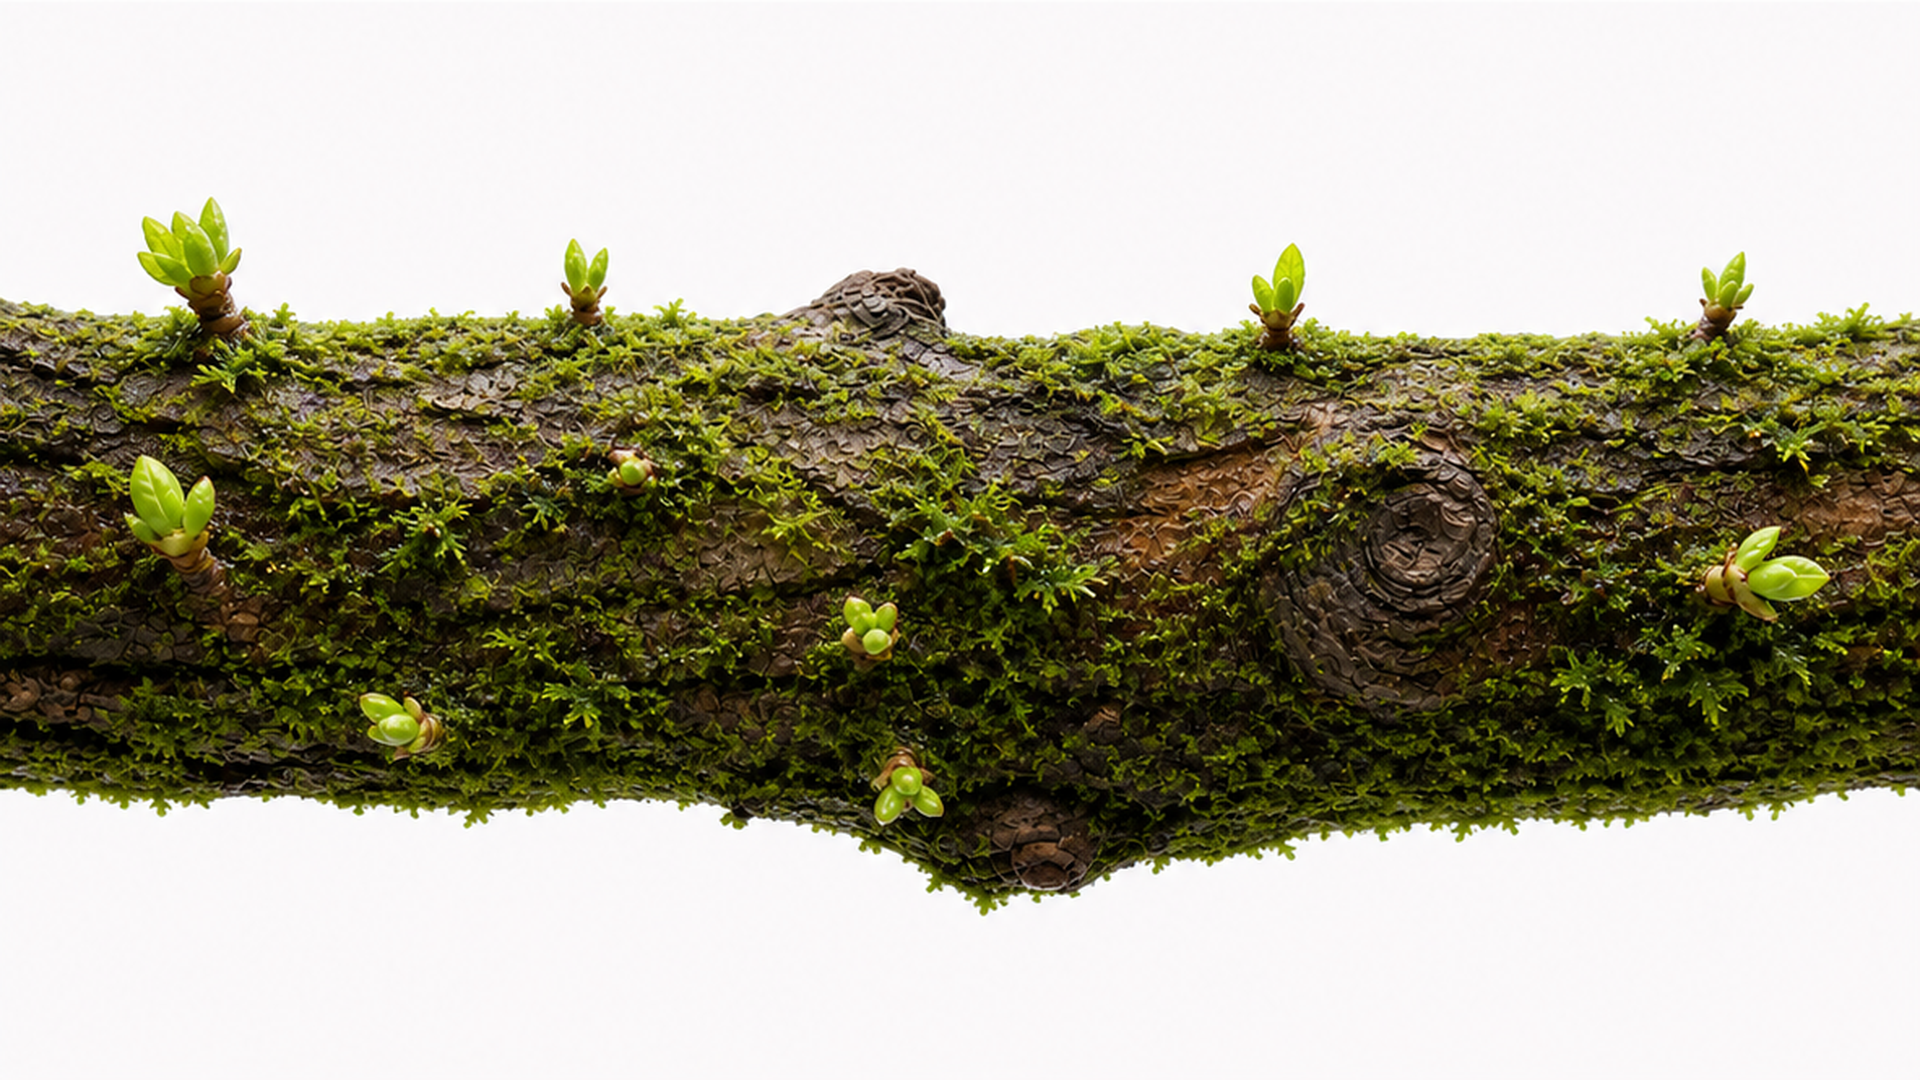
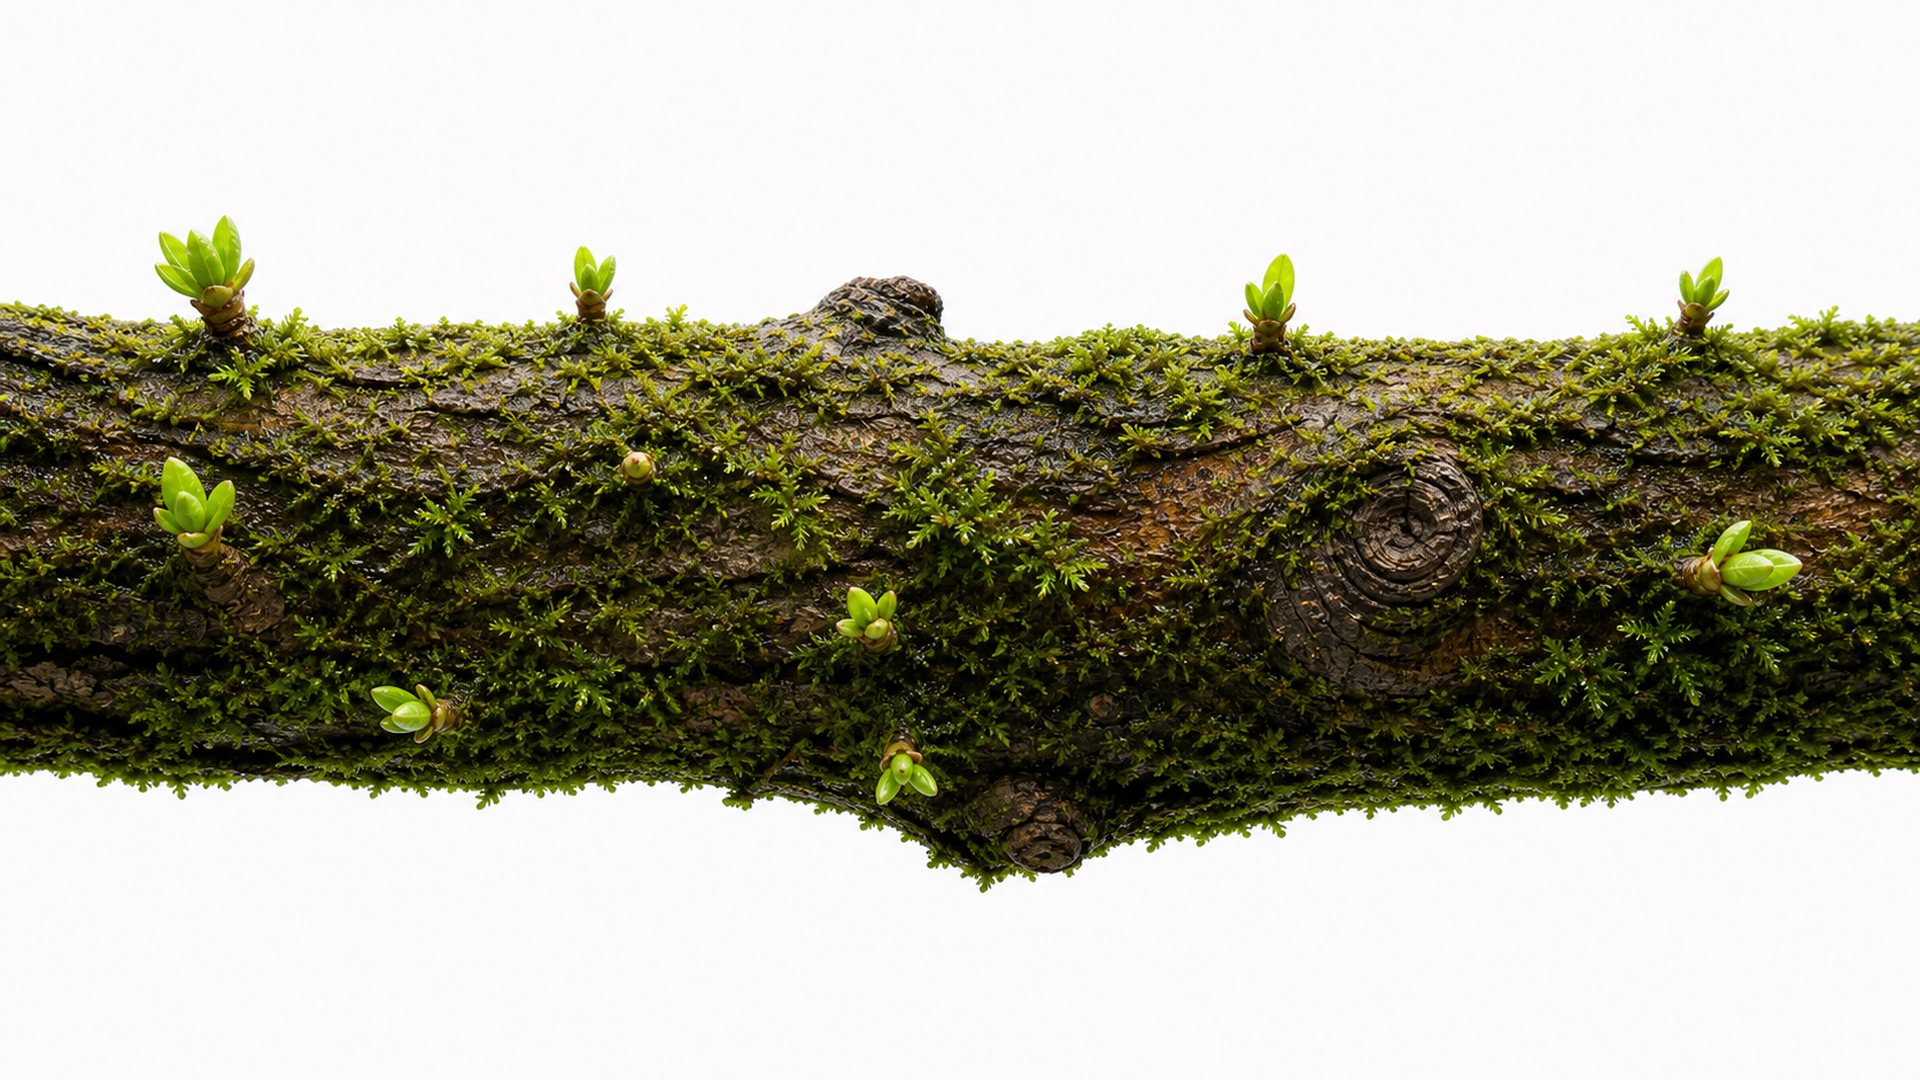
Refine sprout reveal hero interaction

diff --git a/app.js b/app.js
@@ -1,6 +1,7 @@
 const canvas = document.querySelector("#scene");
 const ctx = canvas.getContext("2d");
-const pointer = { x: 0.5, y: 0.52, active: false };
+const pointer = { x: 0.5, y: 0.52, targetX: 0.5, targetY: 0.52, active: false };
+const revealTrail = [];
 let width = 0;
 let height = 0;
 let dpr = 1;
@@ -56,29 +57,51 @@ function drawImageCover(context, img) {
 function paintRevealMask(time) {
   maskCtx.save();
   maskCtx.globalCompositeOperation = "destination-out";
-  maskCtx.fillStyle = "rgba(0, 0, 0, 0.035)";
+  maskCtx.fillStyle = pointer.active ? "rgba(0, 0, 0, 0.026)" : "rgba(0, 0, 0, 0.05)";
   maskCtx.fillRect(0, 0, width, height);
   maskCtx.restore();
 
   if (!pointer.active) return;
 
+  pointer.x += (pointer.targetX - pointer.x) * 0.18;
+  pointer.y += (pointer.targetY - pointer.y) * 0.18;
+
   const x = pointer.x * width;
   const y = pointer.y * height;
-  const pulse = Math.sin(time * 0.004) * 8;
-  const radius = Math.min(width, height) * 0.17 + pulse;
+  const dx = (pointer.targetX - pointer.x) * width;
+  const dy = (pointer.targetY - pointer.y) * height;
+  const speed = Math.min(Math.hypot(dx, dy), 80);
+  const pulse = Math.sin(time * 0.0034) * 7;
+  const radius = Math.min(width, height) * 0.155 + speed * 0.52 + pulse;
+
+  revealTrail.unshift({ x, y, radius, time });
+  if (revealTrail.length > 15) revealTrail.pop();
 
   maskCtx.save();
   maskCtx.globalCompositeOperation = "source-over";
 
-  const outer = maskCtx.createRadialGradient(x, y, radius * 0.08, x, y, radius);
-  outer.addColorStop(0, "rgba(255,255,255,0.95)");
-  outer.addColorStop(0.38, "rgba(255,255,255,0.72)");
-  outer.addColorStop(0.72, "rgba(255,255,255,0.22)");
-  outer.addColorStop(1, "rgba(255,255,255,0)");
-  maskCtx.fillStyle = outer;
-  maskCtx.beginPath();
-  maskCtx.arc(x, y, radius, 0, Math.PI * 2);
-  maskCtx.fill();
+  revealTrail.forEach((point, index) => {
+    const age = index / revealTrail.length;
+    const alpha = Math.max(0, 1 - age * 1.1);
+    const trailRadius = point.radius * (1 - age * 0.32);
+    const outer = maskCtx.createRadialGradient(point.x, point.y, trailRadius * 0.05, point.x, point.y, trailRadius);
+    outer.addColorStop(0, `rgba(255,255,255,${0.9 * alpha})`);
+    outer.addColorStop(0.28, `rgba(255,255,255,${0.66 * alpha})`);
+    outer.addColorStop(0.62, `rgba(255,255,255,${0.22 * alpha})`);
+    outer.addColorStop(1, "rgba(255,255,255,0)");
+    maskCtx.fillStyle = outer;
+    maskCtx.beginPath();
+    maskCtx.ellipse(
+      point.x,
+      point.y,
+      trailRadius * (1.08 + speed / 360),
+      trailRadius * 0.78,
+      Math.atan2(dy, dx || 0.001) * 0.18,
+      0,
+      Math.PI * 2
+    );
+    maskCtx.fill();
+  });
 
   for (let i = 0; i < 7; i += 1) {
     const angle = time * 0.0013 + i * 1.71;
@@ -140,8 +163,8 @@ window.addEventListener("resize", resize);
 const sceneSection = document.querySelector(".scene-section");
 sceneSection.addEventListener("pointermove", (event) => {
   const rect = sceneSection.getBoundingClientRect();
-  pointer.x = (event.clientX - rect.left) / rect.width;
-  pointer.y = (event.clientY - rect.top) / rect.height;
+  pointer.targetX = (event.clientX - rect.left) / rect.width;
+  pointer.targetY = (event.clientY - rect.top) / rect.height;
   pointer.active = true;
   const cursor = document.querySelector("#cursorDot");
   if (cursor) {
@@ -151,6 +174,7 @@ sceneSection.addEventListener("pointermove", (event) => {
 });
 sceneSection.addEventListener("pointerleave", () => {
   pointer.active = false;
+  revealTrail.length = 0;
 });
 resize();
 Promise.all([

diff --git a/styles.css b/styles.css
@@ -175,10 +175,7 @@ textarea {
   overflow: hidden;
   border-bottom-right-radius: var(--radius);
   border-bottom-left-radius: var(--radius);
-  background:
-    radial-gradient(circle at 50% 38%, rgba(65, 87, 255, 0.18), transparent 31rem),
-    radial-gradient(circle at 34% 62%, rgba(0, 168, 143, 0.14), transparent 26rem),
-    linear-gradient(180deg, #ffffff 0%, #f7f6f1 82%);
+  background: linear-gradient(180deg, #ffffff 0%, #f9f8f4 70%, #f2f0e9 100%);
 }
 
 #scene {
@@ -193,8 +190,8 @@ textarea {
   inset: 0;
   pointer-events: none;
   background:
-    linear-gradient(to bottom, rgba(247, 246, 241, 0) 45%, var(--bg) 100%),
-    radial-gradient(circle at 50% 45%, transparent 0 34%, rgba(247, 246, 241, 0.76) 88%);
+    linear-gradient(to bottom, rgba(255, 255, 255, 0.78) 0%, rgba(255, 255, 255, 0) 24%, rgba(247, 246, 241, 0) 62%, var(--bg) 100%),
+    radial-gradient(circle at 50% 52%, transparent 0 43%, rgba(247, 246, 241, 0.52) 92%);
 }
 
 .viewfinder {
@@ -242,12 +239,13 @@ textarea {
 
 .hero-copy {
   position: absolute;
-  top: 31%;
+  top: 21%;
   left: 50%;
   z-index: 2;
   width: min(760px, calc(100vw - 36px));
   text-align: center;
   transform: translate(-50%, -48%);
+  pointer-events: none;
   will-change: opacity, transform, filter;
 }
 
@@ -264,19 +262,21 @@ textarea {
 .hero-copy h1 {
   margin: 0;
   color: var(--text);
-  font-size: clamp(72px, 10vw, 132px);
+  font-size: clamp(62px, 9vw, 118px);
   line-height: 0.88;
   letter-spacing: 0;
+  text-shadow: 0 12px 34px rgba(255, 255, 255, 0.9), 0 1px 0 rgba(255, 255, 255, 0.82);
 }
 
 .hero-copy span {
   display: block;
-  max-width: 640px;
-  margin: 16px auto 0;
-  color: var(--soft);
-  font-size: clamp(18px, 2vw, 24px);
+  max-width: 590px;
+  margin: 12px auto 0;
+  color: rgba(55, 55, 47, 0.74);
+  font-size: clamp(16px, 1.7vw, 21px);
   font-weight: 720;
-  line-height: 1.5;
+  line-height: 1.48;
+  text-shadow: 0 10px 28px rgba(255, 255, 255, 0.95);
 }
 
 .scene-caption {
@@ -935,12 +935,18 @@ h2 {
     min-height: 640px;
   }
 
+  .hero-copy {
+    top: 24%;
+    width: min(520px, calc(100vw - 28px));
+  }
+
   .hero-copy h1 {
-    font-size: clamp(62px, 19vw, 92px);
+    font-size: clamp(50px, 17vw, 82px);
   }
 
   .hero-copy span {
-    font-size: 17px;
+    max-width: 360px;
+    font-size: 16px;
   }
 
   .scene-caption {